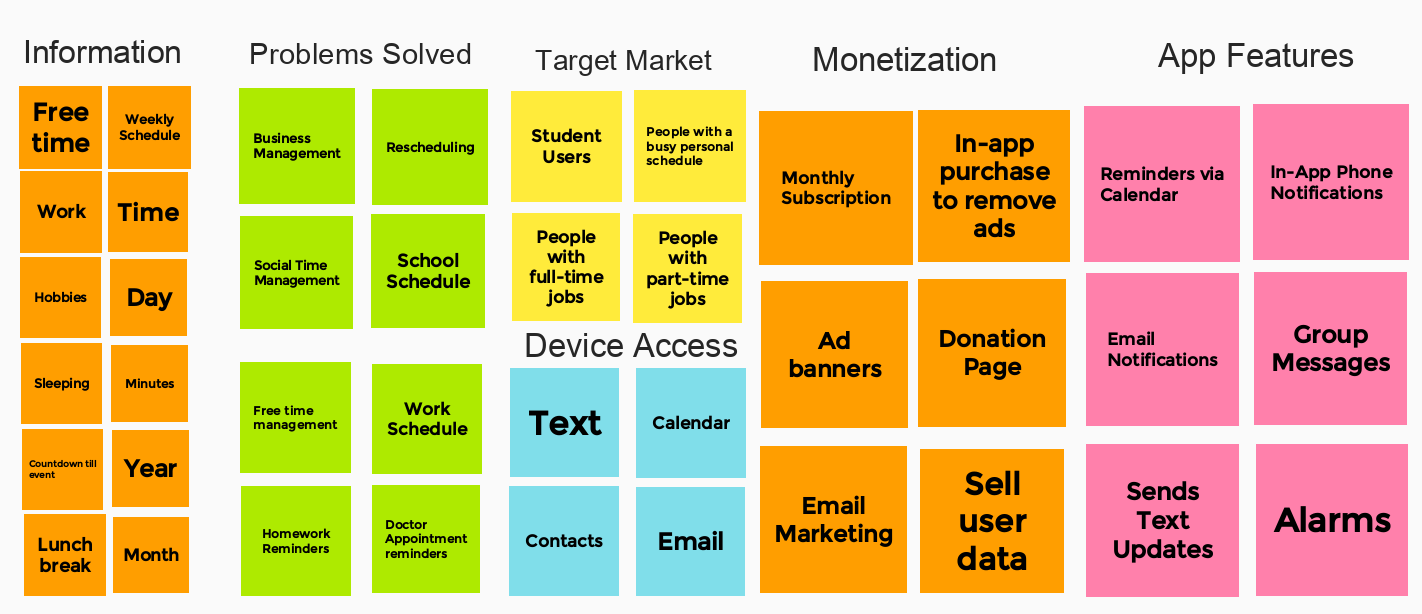
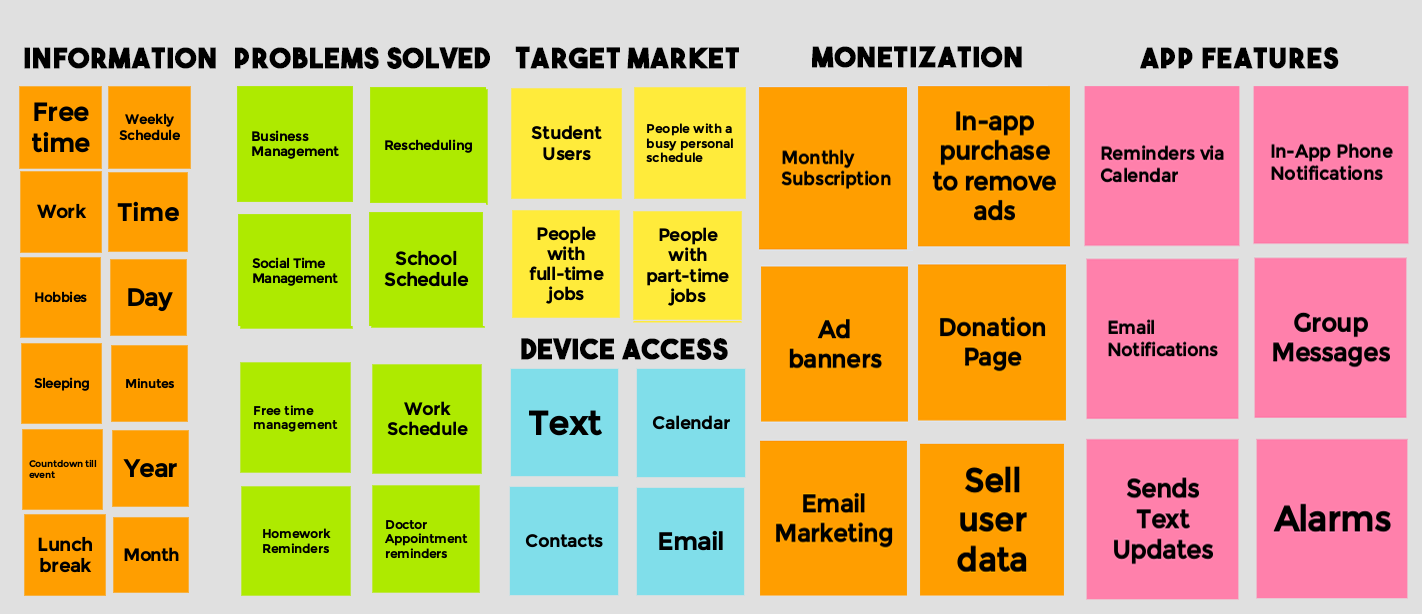
add grey background and change image to grey backgrounds

diff --git a/index.html b/index.html
@@ -11,7 +11,7 @@
         <p>“Knowledge, like air, is vital to life. Like air, no one should be denied it.” - Paul Otlet</p>
 <!-- Problem Statement-->        
         <section class="assignment">
-            <a href="pdf/ProblemStatement.pdf"> <img src="img\ProblemStatement.png"> </a>
+            <a href="pdf/ProblemStatement.pdf"> <img src="img/problemstatementGrey.png"> </a>
            <a href="pdf/ProblemStatement.pdf"> <h2>Problem Statement: Schedule Planner</h2> </a>
             <ul>
                 <li>Students struggle to plan out their daily schedule while integrating their homework, classes and other activities, resulting in a more organized week which allows for greater productivity</li>

diff --git a/styles.css b/styles.css
@@ -1,5 +1,5 @@
 body {
-    background:white;
+    background:rgb(224, 224, 224);
     font-family: Arial, Helvetica, sans-serif;
 
 }
